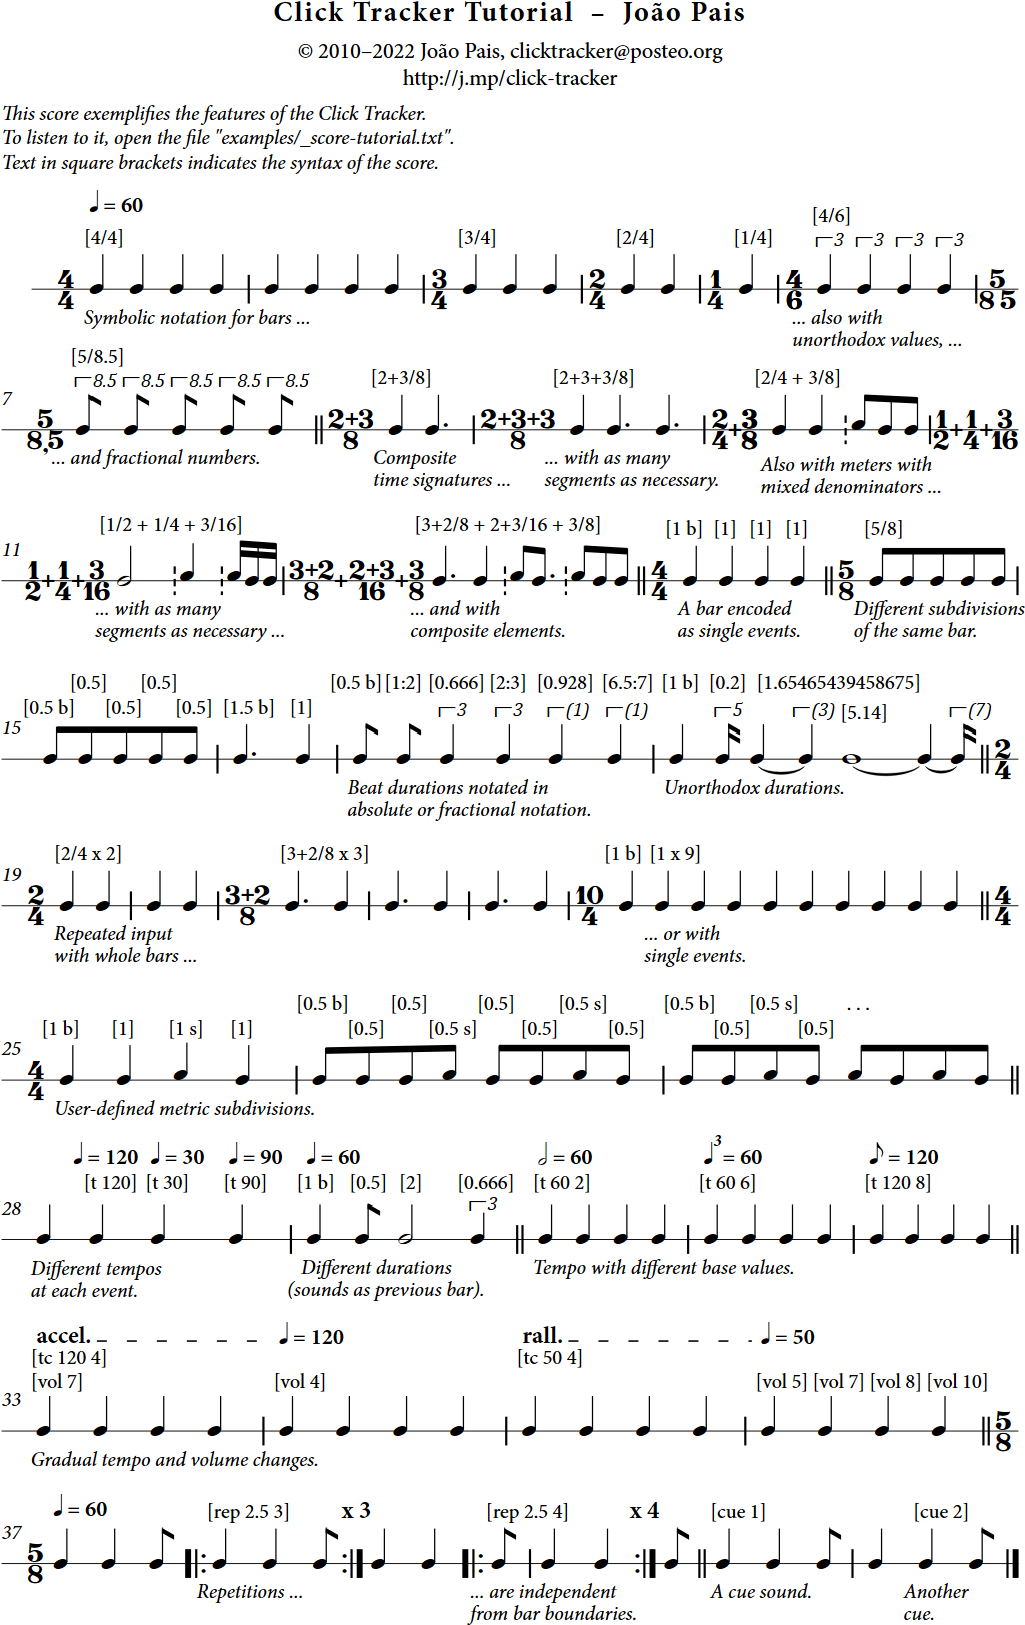
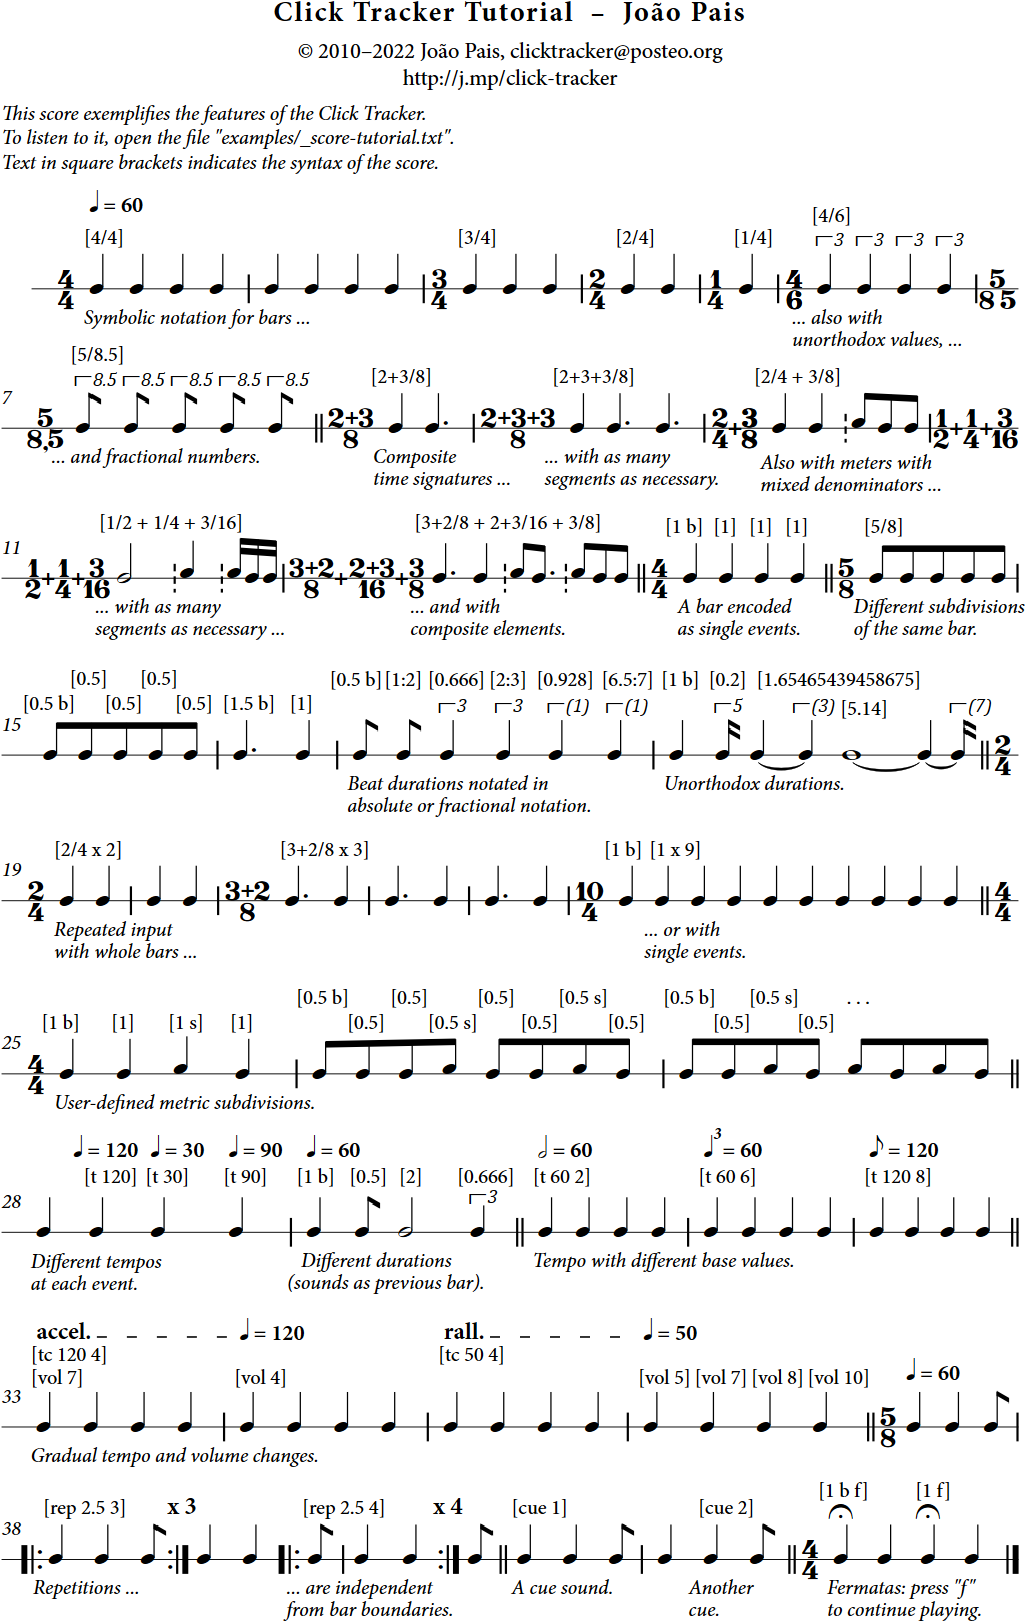
fermata

diff --git a/index-neu.html b/index-neu.html
@@ -45,7 +45,7 @@
 <section>
 <h1>
 <a id="click-tracker-software" class="anchor" href="http://j.mp/click-tracker" aria-hidden="true"><span aria-hidden="true" class="octicon octicon-link"></span></a>Click Tracker</h1>
-<p><strong>Click Tracker</strong> is a program designed for composers, conductors and instrumentalists working with modern music. The main goal of the software is to prepare a click track of any score, no matter how complex it is. It can also be used as a programmable metronome.</p>
+<p><strong>Click Tracker</strong> is a program designed for composers, conductors and instrumentalists working with modern music. The main goal of the software is to prepare a click track of a score, even when great complexity is involved. It can also be used as a programmable metronome.</p>
 <center><img src="images/click-tracker-max-win.png"></center>
 <p>This software runs in Windows, macOS and Linux, and can be used either by conductors in concert, by musicians for practice purposes, or by composers while composing.</p>
 <p>To prepare a score, just input the values in a plain text file format (.txt) according to the syntax explained in the tutorial online, or sent with the program.</p>
@@ -70,6 +70,7 @@ An invoice can be written for donations.</p>
 <li>Version 1.8 &ndash; <a href="http://jeffreygavett.com/" target="_blank">Jeff Gavett</a></li>
 <li>Version 2.1 &ndash; <a href="http://asamisimasa.com/" target="_blank">Ensemble asamisimasa</a></li>
 <li>Version 2.2 &ndash; <a href="http://www.stefanprins.be/" target="_blank">Stefan Prins</a></li>
+<li>Version 2.3 &ndash; <a href="https://www.quatuorbozzini.ca/" target="_blank">Quatuor Bozzini</a></li>
 </ul>
 
 
@@ -91,7 +92,7 @@ Additionaly, <u>M1 processors aren't supported yet</u> &ndash; you will have to 
 Use <a href="http://bit.ly/ClickTracker2-2">this version</a> if you want to run the Click Tracker on Pure Data (which can be downloaded from <a href="http://msp.ucsd.edu/software.html">here</a>).<br>
 
 <h3>Click Tracker Patch for Max/MSP</h3>
-Use this version if you want to run the Click Tracker on Max/MSP (from version 7) on <a href="http://bit.ly/ClickTracker2-2MaxWin">Windows</a> or <a href="http://bit.ly/ClickTracker2-2MaxApple">Apple</a> (see above for security settings in Apple hardware).<br>
+Use this version if you want to run the Click Tracker on Max/MSP (from version 7) on <a href="http://bit.ly/ClickTracker2-2MaxWin">Windows</a> or <a href="http://bit.ly/ClickTracker2-3MaxApple">Apple</a> (see above for security settings in Apple hardware).<br>
 <p>If you download any of the patch versions, see the <a href="#afeature">Advanced Features</a> section below on how to integrate it into your patches. The patch runs at a sampling rate of 44100Hz.</p>
 
 
@@ -393,6 +394,16 @@ cue 2
 .5</code></pre>
 <center><img src="images/score-tutorial-10.png" width="238" height="64"></center>
 
+<h4>FERMATAS</h4>
+<p>Fermatas can be added with the letter "f" after a single beat, separated by a space:</p>
+<pre><code>1 b f
+1
+1 f
+1</code></pre>
+<center><img src="images/score-tutorial-14.png" width="164" height="78"></center>
+<p>If the fermata playback mode is on (check the Settings window), notes with fermatas will hold until the key "f" is pressed. You can use the command "fermata x" to define in your score if fermata mode should be on or off.
+</p>
+
 <h4>PICKUP BAR</h4>
 <p>In a performance you can't start the click track without warning &ndash; with the "pickup x" comand it is possible to repeat the first bar as many times as you need in order for the musicians to prepare themselves. The parameter x defines how many times the bar will be repeated.<br>
 You can either include this command in the score file (anywhere in the score but I suggest you to leave it on top) &ndash; or change it anytime in the patch itself. To have 1 pickup bar write "pickup 1".<br>
@@ -502,18 +513,19 @@ The Click Tracker's GUI offers the following possibilities (keyboard shortcuts a
 <strong>Cue</strong> &ndash; Active cue.<br>
 <strong>Track Volume</strong> &ndash; Volume as defined in the score.<br>
 <br>
-For the next commands in light blue boxes: you can change the values by either click and dragging with the mouse, or click, type the value in the keyboard, and press return.<br>
-<strong>Go to Bar</strong> &ndash; Start directly from a bar. The button near it resets the value.<br>
-<strong>Pickup Bar</strong> &ndash; Setup the number of pickup bars.<br>
-<strong>Tempo Scaler</strong> &ndash; If a piece is too fast or slow for you to follow you can just change the scaling factor in the interface. Both original and scaled tempi are shown. The button near it resets the value.<br>
-<strong>Loop</strong> &ndash; Loops from current bar to the bar indicated in "Loop to".<br>
+For the next commands in light blue boxes: you can change the values by either click and dragging with the mouse and by click or pressing the shortcut key and typing the value in the keyboard, then press return.<br>
+<strong>Go to Bar [g]</strong> &ndash; Start directly from a bar. The button near it resets the value [shift+g].<br>
+<strong>Pickup Bar [u]</strong> &ndash; Setup the number of pickup bars. The button near it resets the value [shift+u].<br>
+<strong>Tempo Scaler [t]</strong> &ndash; If a piece is too fast or slow for you to follow you can just change the scaling factor in the interface. Both original and scaled tempi are shown. The button near it resets the value [shift+u].<br>
+<strong>Loop [l]</strong> &ndash; Loops from current bar to the bar indicated in "Loop to". The button near it turns it on/off [shift+l].<br>
 <strong>Output volume meter</strong> and <strong>Volume level</strong> &ndash; Self explanatory.<br>
 <br>
 In the <strong>Settings</strong> window:<br>
 <strong>Bar Filter</strong> &ndash; How many bars are spoken.<br>
 <strong>First Beat</strong> &ndash; Mute other beats besides the first one in each bar.<br>
 <strong>Beat Direction</strong> &ndash; Changes beat counting direction up or downwards<br>
-<strong>Subdivision</strong> &ndash; Turns playback of metric subdivisions on/off.</p>
+<strong>Subdivision</strong> &ndash; Turns playback of metric subdivisions on/off.<br>
+<strong>Fermata</strong> &ndash; Turns playback of fermatas on/off.</p>
 <strong>Display</strong> &ndash; Shows large window with beat and bar numbers.</p>
 <strong>Keyboard Control</strong> &ndash; Turn keyboard control on/off.<br>
 <strong>Output Channels</strong> &ndash; Select the output channels.<br>
@@ -521,22 +533,23 @@ In the <strong>Settings</strong> window:<br>
 
 <h3>COMMAND LIST</h3>
 <p>These commands can be used in your score files:</p>
-<strong>t $1</strong> &ndash; Tempo in MM &ndash; Eg. t 70<br>
+<strong>t $1</strong> &ndash; Tempo in MM &ndash; E.g. t 70<br>
 <strong>[beat duration] b</strong> &ndash; b marks the beginning of a bar<br>
 <strong>[beat duration]</strong> &ndash; duration of a beat<br>
 <strong>[beat duration] s</strong> &ndash; s marks a metric subdivision<br>
-<strong>$1:$2</strong> &ndash; fractional notation for the duration of beats &ndash; Eg. 2:3<br>
-<strong>$1/$2</strong> &ndash; abreviated input of regular bars &ndash; Eg. 3/4<br>
-<strong>$1+$2/$3</strong> &ndash; abreviated input of composite bars &ndash; Eg. 2+3/8<br>
-<strong>$1/$2+$3/$4</strong> &ndash; abreviated input of composite bars with different denominators &ndash; Eg. 2/4+3/8<br>
-<strong>[command] x $1</strong> &ndash; repeated input &ndash; Eg. 3/4 x 3<br>
-<strong>tc $1 $2</strong> &ndash; tempo change. $1 = new tempo / $2 = number of beats necessary to reach it (beat duration of the tempo change MUST coincide with the sum of the beats it lasts) &ndash; Eg. tc 120 5<br>
-<strong>rep $1 $2</strong> &ndash; repetition of a fragment. $1 = number of beats to repeat / $2 = number of times to repeat &ndash; Eg. rep 4 3<br>
-<strong>cue $1</strong> &ndash; play audio cue $1.wav &ndash; Eg. cue 1<br>
-<strong>first $1</strong> &ndash; number of the first bar of the score &ndash; Eg. first 35<br>
-<strong>pickup $1</strong> &ndash; pickup bar repeats the first bar $1 times (bar numbers decrease from $1+1 to 1) &ndash; Eg. pickup 2<br>
-<strong>subdiv 0/1</strong> &ndash; Turns playback of metric subdivisions on/off. &ndash; Eg. subdiv 1<br>
-<strong>vol $1</strong> &ndash; volume between 0 and 10 &ndash; Eg. vol 8<br>
+<strong>$1:$2</strong> &ndash; fractional notation for the duration of beats &ndash; E.g. 2:3<br>
+<strong>$1/$2</strong> &ndash; abreviated input of regular bars &ndash; E.g. 3/4<br>
+<strong>$1+$2/$3</strong> &ndash; abreviated input of composite bars &ndash; E.g. 2+3/8<br>
+<strong>$1/$2 + $3/$4</strong> &ndash; abreviated input of composite bars with different denominators &ndash; E.g. 2/4 + 3/8<br>
+<strong>[command] x $1</strong> &ndash; repeated input &ndash; E.g. 3/4 x 3<br>
+<strong>tc $1 $2</strong> &ndash; tempo change. $1 = new tempo / $2 = number of beats necessary to reach it (beat duration of the tempo change MUST coincide with the sum of the beats it lasts) &ndash; E.g. tc 120 5<br>
+<strong>rep $1 $2</strong> &ndash; repetition of a fragment. $1 = number of beats to repeat / $2 = number of times to repeat &ndash; E.g. rep 4 3<br>
+<strong>cue $1</strong> &ndash; play audio cue $1.wav &ndash; E.g. cue 1<br>
+<strong>first $1</strong> &ndash; number of the first bar of the score &ndash; E.g. first 35<br>
+<strong>fermata 0/1</strong> &ndash; Turns fermata playback on/off &ndash; E.g. fermata 1<br>
+<strong>pickup $1</strong> &ndash; pickup bar repeats the first bar $1 times (bar numbers decrease from $1+1 to 1) &ndash; E.g. pickup 2<br>
+<strong>subdiv 0/1</strong> &ndash; Turns playback of metric subdivisions on/off. &ndash; E.g. subdiv 1<br>
+<strong>vol $1</strong> &ndash; volume between 0 and 10 &ndash; E.g. vol 8<br>
 <strong>par&ensp;cl/clst&ensp;english/deutsch/espanol/portugues</strong> &ndash; playback parameters<br>
 <strong>direction up/down</strong> &ndash; changes beat counting direction up or downwards. Default is upwards.<br>
 <strong>audiooutput $1 $2 ...</strong> &ndash; set output channels from 1 to 32<br>
@@ -545,11 +558,20 @@ In the <strong>Settings</strong> window:<br>
 <strong>osc sendpo $1</strong> &ndash; set send port<br>
 
 <h3>KEYBOARD SHORTCUTS</h3>
-<strong>space</strong> &ndash; play/stop<br>
+<p><strong>space</strong> &ndash; play/stop<br>
 <strong>p</strong> &ndash; play from last active bar<br>
 <strong>Esc</strong> &ndash; turn keyboard control on/off</p>
-See the <a href="#afeature">Advanced Features</a> section for details on other features.
 
+<p><strong>g</strong> &ndash; select Go to Bar for input<br>
+<strong>shift+g</strong> &ndash; reset Go to Bar<br>
+<strong>u</strong> &ndash; select Pickup Bar for input<br>
+<strong>shift+u</strong> &ndash; reset Pickup Bar<br>
+<strong>t</strong> &ndash; select Tempo Scaler for input<br>
+<strong>shift+t</strong> &ndash; reset Tempo Scaler<br>
+<strong>l</strong> &ndash; select Loop to for input<br>
+<strong>shift+l</strong> &ndash; turn Loop to on/off</p>
+
+See the <a href="#afeature">Advanced Features</a> section for details on other features.
 
 <h2>
 <a id="midiexport" class="anchor" href="#midiexport" aria-hidden="true"><span aria-hidden="true" class="octicon octicon-link"></span></a>MIDI Export</h2>
@@ -615,7 +637,7 @@ You can setup the OSC parameters in your score. For that, use the following comm
  -->
  
 <h3><a id="syntax-high" class="anchor" href="#syntax-high" aria-hidden="true"></a>Inputting a score with syntax highlighting</h3>
-If you use <a href="https://notepad-plus-plus.org/">Notepad++</a> for Windows, you can install an extension to allow for syntax highligting, making your work even easier. Comments will be colored green, commands in blue, and the "b" at the start of a bar in red:
+If you use <a href="https://notepad-plus-plus.org/">Notepad++</a> for Windows, you can install an extension to allow for syntax highligting, making your work even easier. Comments will be colored green, commands in blue, and letters after beat durations ("b", "s", "f") in red:
 <center><img src="images/syntax-high-w.png" width="294" height="230"></center>
 <p>For that, follow these steps:
 <ul>
